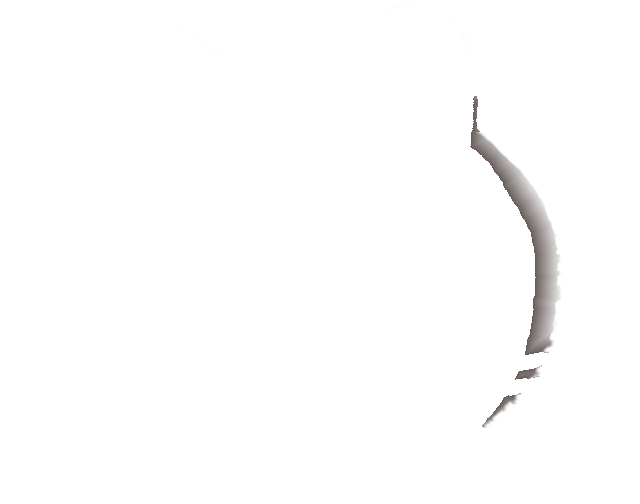
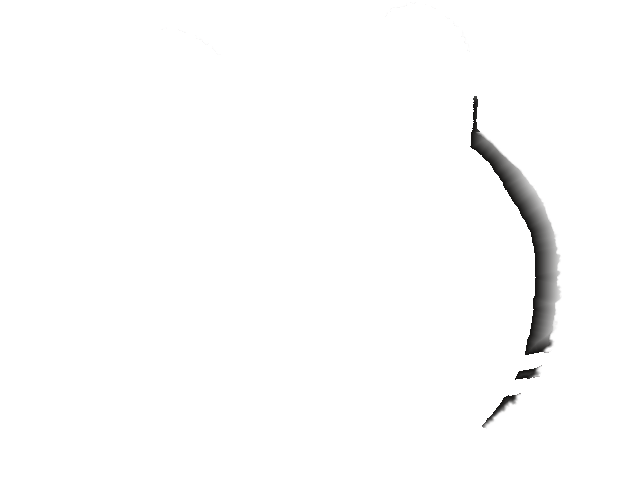
hex: Hex is a black cat by day too
Her day sheet was inked grey-brown (#665B59) while the night sheet drew her
black (#0C0B0A) — two cats, really. This re-inks the day coat to the night
drawing's own black, so she is one black cat all game and matches the splash
picture she has always been drawn as there.

The transform is tools/hex/blacken-coat.mjs rather than a filter: a filter
would run on the cat every frame (she squashes on every pet), and no single
curve does the job anyway — the coat has to fall 102 -> 12 while the drawn
line stays at 48. The day sheet is a three-ink drawing (coat, line, inner-ear
pink) and every other pixel in it is an antialiased blend of two of the three,
so each pixel is projected onto whichever ink pair it sits between and
re-mixed with only the COAT endpoint moved. Measured residual off that model:
mean 0.15/255. Alpha comes through untouched, and the script is idempotent
with a --check mode for the next art drop.

The line staying put is the look: it is now LIGHTER than the coat, so her
outline reads as a charcoal rim on black and the whiskers still carry against
the pink page. Night keeps its white keyline, so the day->night cross-fade is
still a visible change and the delayed visibility flip still has a fringe to
hide — a charcoal one now, not a brown one.

Claude-Session: https://claude.ai/code/session_01SfuUcLvrHdr9QbsMKcJAme

Changed region(s): [[0.7188, 0.1786, 0.875, 0.7738], [0.75, 0.7738, 0.8125, 0.8631]]

diff --git a/apps/hex-clicker/index.html b/apps/hex-clicker/index.html
@@ -473,8 +473,8 @@
   #catWrap.zoomies #hexCat { filter: drop-shadow(0 0 32px rgba(255,212,77,.45)); }
 
   /* THE HEAD, as drawn. One frame visible at a time, picked by data-pose:
-       day  -> resting daytime coat        s1..s3 -> the pet squash, in order
-       night-> the black night coat
+       day  -> resting coat, charcoal keyline   s1..s3 -> the pet squash, in order
+       night-> the same black coat, white keyline
      Visibility rather than display, because display:none on an <image> can drop
      it from the decode queue in some engines and the first pet of the game would
      then flash an empty head while the PNG loads. All five decode at boot and
@@ -513,23 +513,28 @@
     transform-box: fill-box; transform-origin: 50% 100%;
   }
 
-  /* THE COAT CHANGE. Day and night are two drawings of the same cat, one brown
-     and one black, and picking between them on a class flip cut from one to the
-     other in a single frame — at the one moment in the game where she is
-     supposed to be falling asleep. So the night coat CROSS-FADES in over the day
-     one, on the same 1.8s and the same curve as the camera move, and she darkens
-     into the night rather than being replaced by it.
+  /* THE COAT CHANGE. Day and night are two drawings of the same cat, and she is
+     BLACK in both — the day sheet shipped grey-brown and was re-inked to the
+     night drawing's own #0C0B0A (tools/hex/blacken-coat.mjs is that transform,
+     and why the day art no longer matches whatever the artist last exported).
+     What still differs between the two sheets is the KEYLINE — a charcoal rim by
+     day, white at night — and the silhouette it is drawn around, and picking
+     between them on a class flip cut from one to the other in a single frame, at
+     the one moment in the game where she is supposed to be falling asleep. So
+     the night coat CROSS-FADES in over the day one, on the same 1.8s and the
+     same curve as the camera move, and her line lifts into the night rather than
+     being swapped for another one.
      The day coat stays FULLY OPAQUE underneath for the whole fade instead of
      fading out in step with it: two half-transparent layers would let a quarter
      of the page through the middle of the blend and she would go briefly
      ghostly. It hides only after the fade, on a delayed visibility flip, because
      the night drawing's white keyline makes it ~2% wider than the day one —
-     left underneath at full opacity that 2% reads as a thin brown fringe all the
-     way round her.
+     left underneath at full opacity that 2% reads as a thin charcoal fringe all
+     the way round her.
      The delay is declared on the NIGHT rule alone, so the return leg (a dev jump
-     back to day) reads 0s off the day rule and she brightens immediately. Same
-     cascade rule as #dock's cutscene fade: the browser takes a transition from
-     the after-change style. */
+     back to day) reads 0s off the day rule and her day line snaps back at once.
+     Same cascade rule as #dock's cutscene fade: the browser takes a transition
+     from the after-change style. */
   #hexCat #headNight {
     visibility: visible; opacity: 0;
     transition: opacity 1.8s cubic-bezier(.22, .61, .36, 1);

diff --git a/apps/hex-clicker/src/cat.js b/apps/hex-clicker/src/cat.js
@@ -185,8 +185,9 @@ export function updateCat(t) {
 
   // --- Which head is on screen ------------------------------------------
   // The night coat outranks the squash entirely: the four squash frames are
-  // drawn in the daytime coat, so playing one at night would flash a brown cat
-  // onto a black one for two frames.
+  // drawn in the day coat, and day and night differ by their KEYLINE now that
+  // she is black in both (dark rim by day, white by night), so playing one at
+  // night would flash her outline off and back on for two frames.
   let pose = "day";
   if (asleep) pose = "night";
   else if (squashPose) pose = squashPose;

diff --git a/apps/hex-clicker/src/README.md b/apps/hex-clicker/src/README.md
@@ -33,6 +33,13 @@ poses. The heads are exported onto one shared 828x652 canvas registered by eye
 position, with the eyes painted out, so `#hexCat` can swap them freely under a
 single rigged pair of eyes.
 
+The DAY heads in `public/art/` are not the raw export: Hex is a black cat, and
+the day sheet draws her grey-brown (`#665B59`). `node tools/hex/blacken-coat.mjs`
+re-inks the coat to the night sheet's own `#0C0B0A` and leaves the drawn line and
+the inner-ear pink where they are, so her outline survives as a charcoal rim on
+black. Run it after any fresh day export — it is idempotent, and `--check` exits
+1 on a frame that is still grey.
+
 That rigged pair is three nested transform channels, one job each, because a
 blink, a glance and a dilation all happen at once and one transform can only say
 one of them: `#eyeLeft/#eyeRight` are the lids (scaleY), the `.look` groups

diff --git a/CLAUDE.md b/CLAUDE.md
@@ -330,6 +330,7 @@ cd tools/goomba && node bands.mjs          # the room's band budget (4, and no r
 cd tools/goomba && node seed.mjs           # print the seed pack
 cd tools/goomba && node seed.mjs --push    # …load it into a running event
 cd tools/goomba && node seed.mjs --pull    # what is the event running right now?
+node tools/hex/blacken-coat.mjs            # re-ink a fresh hex DAY export to her black coat
 ```
 
 `npm run dev` no longer starts an editor on :5179 — press `\` in the game
